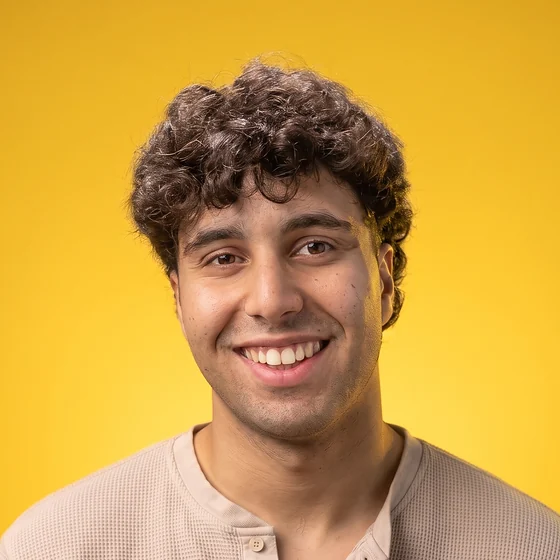
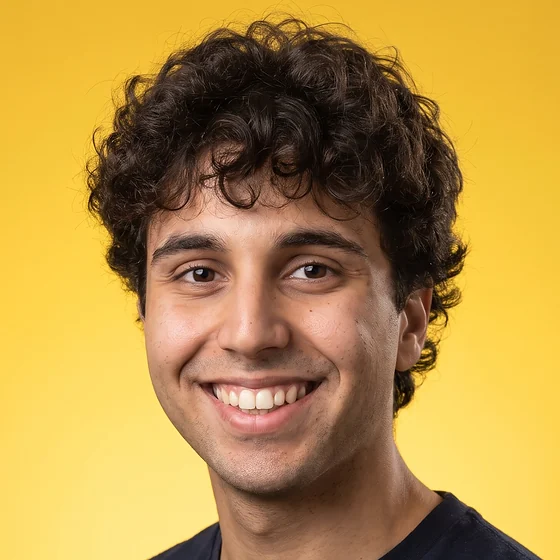
Sito personale: foto di Maicol rigenerata tutta in una volta, senza montaggio
Claude-Session: https://claude.ai/code/session_01ApKum1XFknv7gQFesupG21

diff --git a/LICENSES.md b/LICENSES.md
@@ -39,4 +39,4 @@ La ricerca del negozio legge i dati di OpenStreetMap, © OpenStreetMap contribut
 
 Foto libere da diritti (CC0 e pubblico dominio) trovate con Openverse, usate nella pagina degli esempi e nel sito personale (cartelle `assets/img` e `studio/img`). Autori: Jorge Zapata, maryseas4, Ericka Barboza, ChrisEdwardsCE, Leeroy, Snufkin, Jonas Svidras, Matt Moloney, Roman Kraft, roland, Explorers' Edge e la raccolta di pubblico dominio di rawpixel. Lo stesso elenco è in fondo alla pagina degli esempi, sotto "Crediti delle foto". Le immagini prima e dopo in `studio/img` sono catture della pagina degli esempi.
 
-La foto di Maicol (`studio/img/maicol-*.webp`) è sua e non è libera: non si può riusare senza il suo permesso. Parte da una sua foto vera: collo, maglia e sfondo sono stati ricostruiti con l'AI, poi la luce da studio è stata rifatta con l'AI su tutta la foto, viso compreso, usando la sua foto come riferimento (Higgsfield, modelli Nano Banana).
+La foto di Maicol (`studio/img/maicol-*.webp`) è sua e non è libera: non si può riusare senza il suo permesso. È un ritratto da studio rigenerato tutto in una volta con l'AI (Higgsfield, Nano Banana Pro) partendo da sue foto vere.
